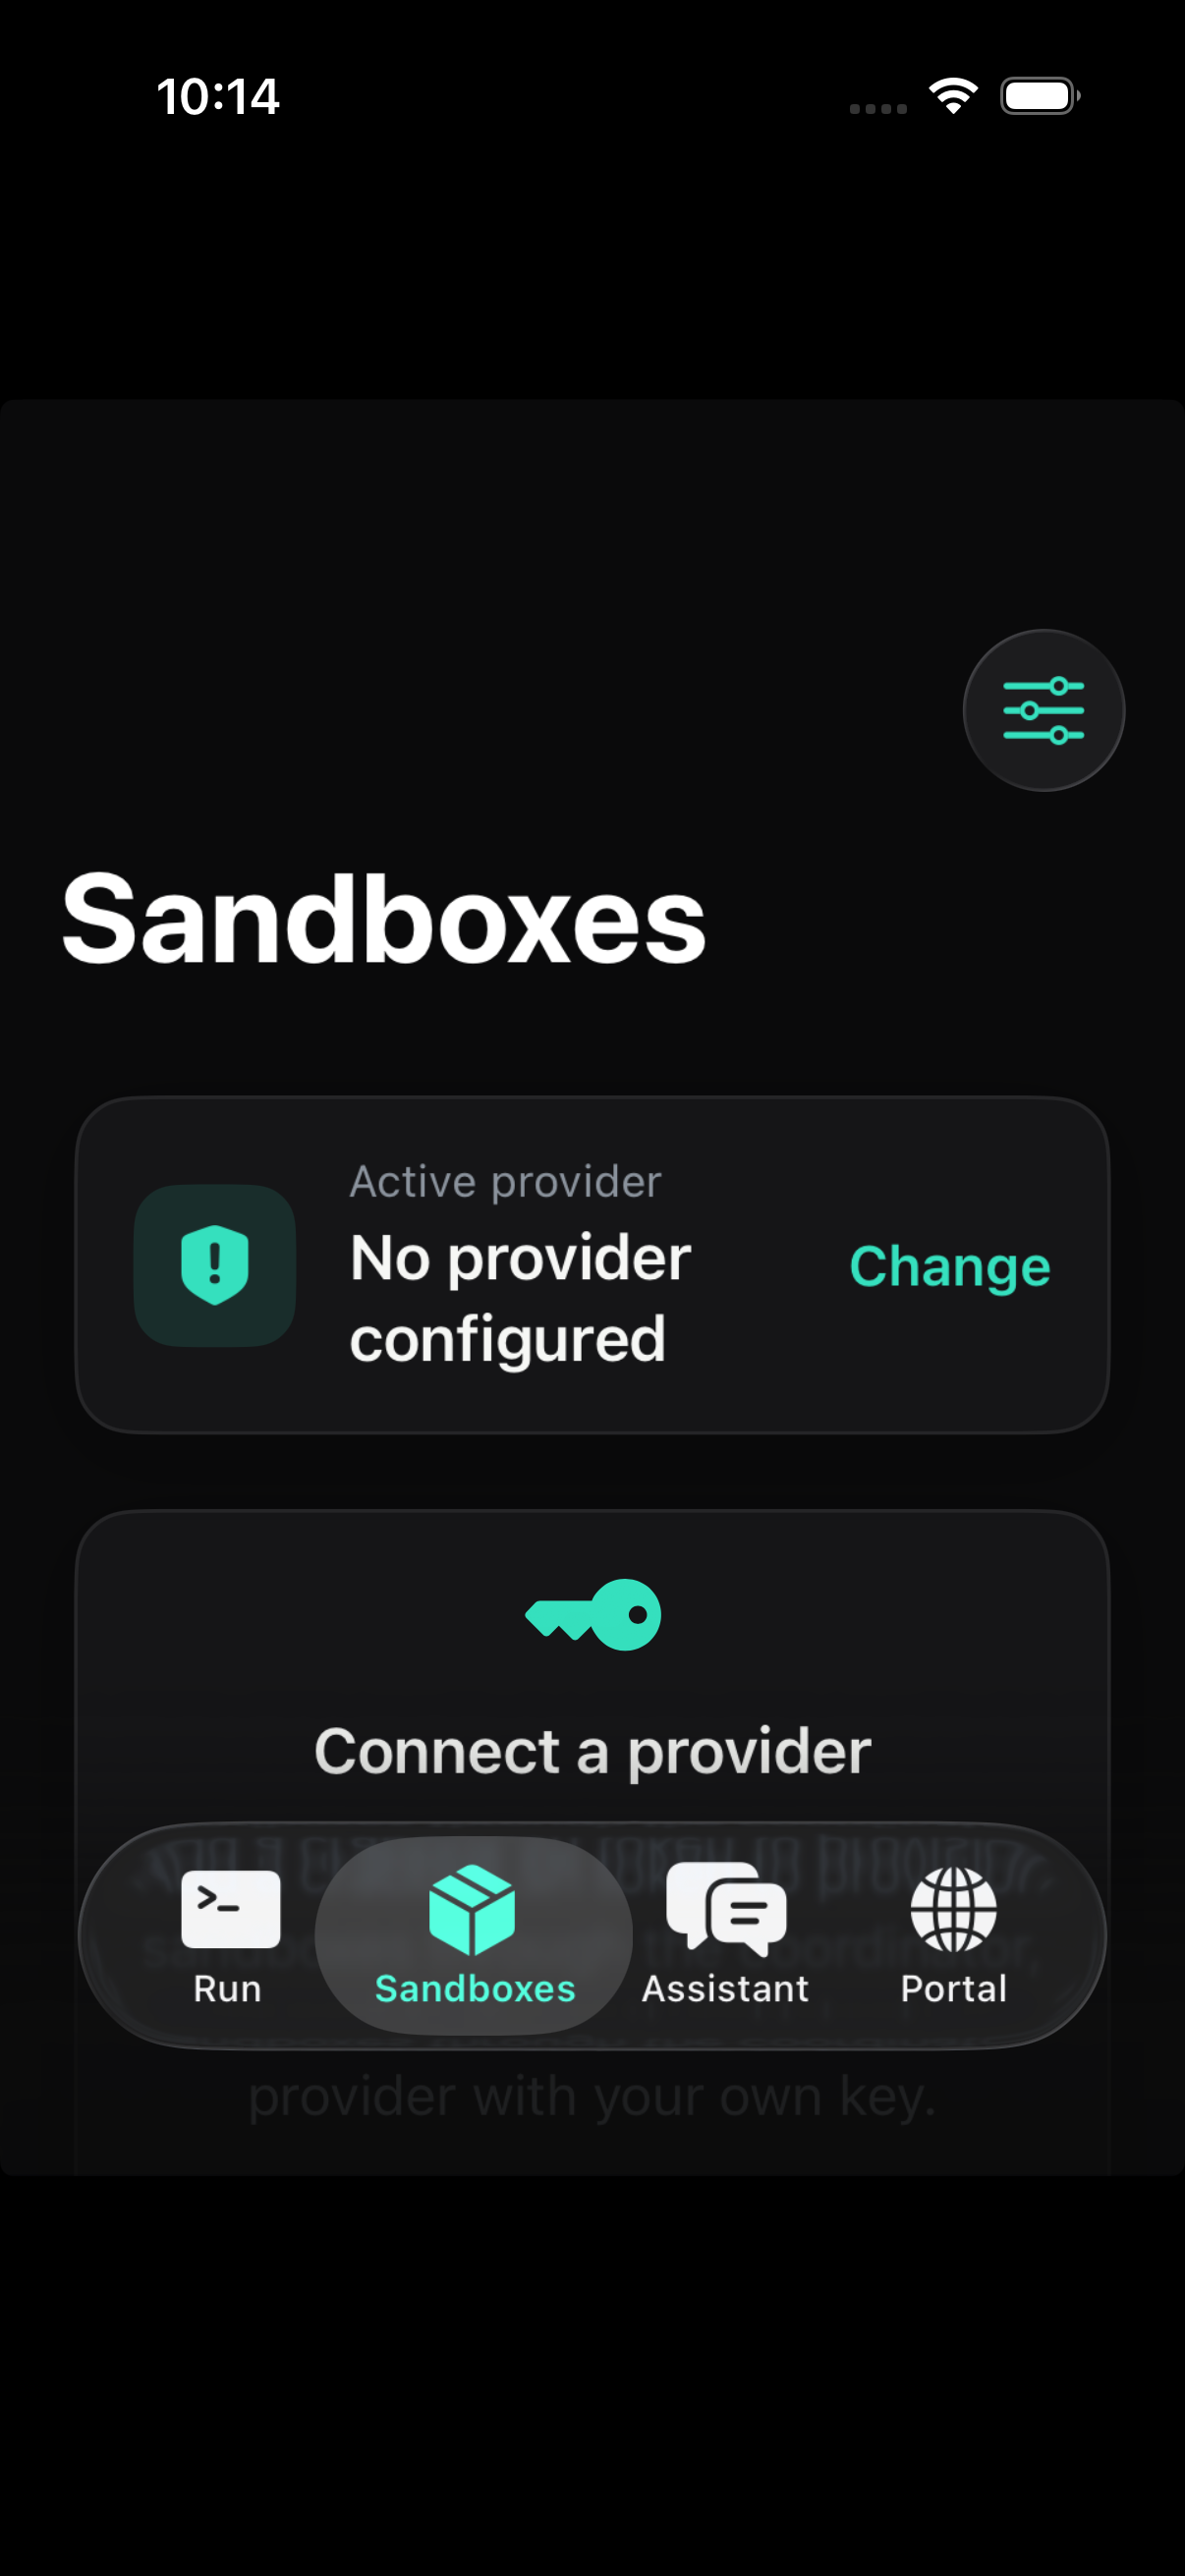
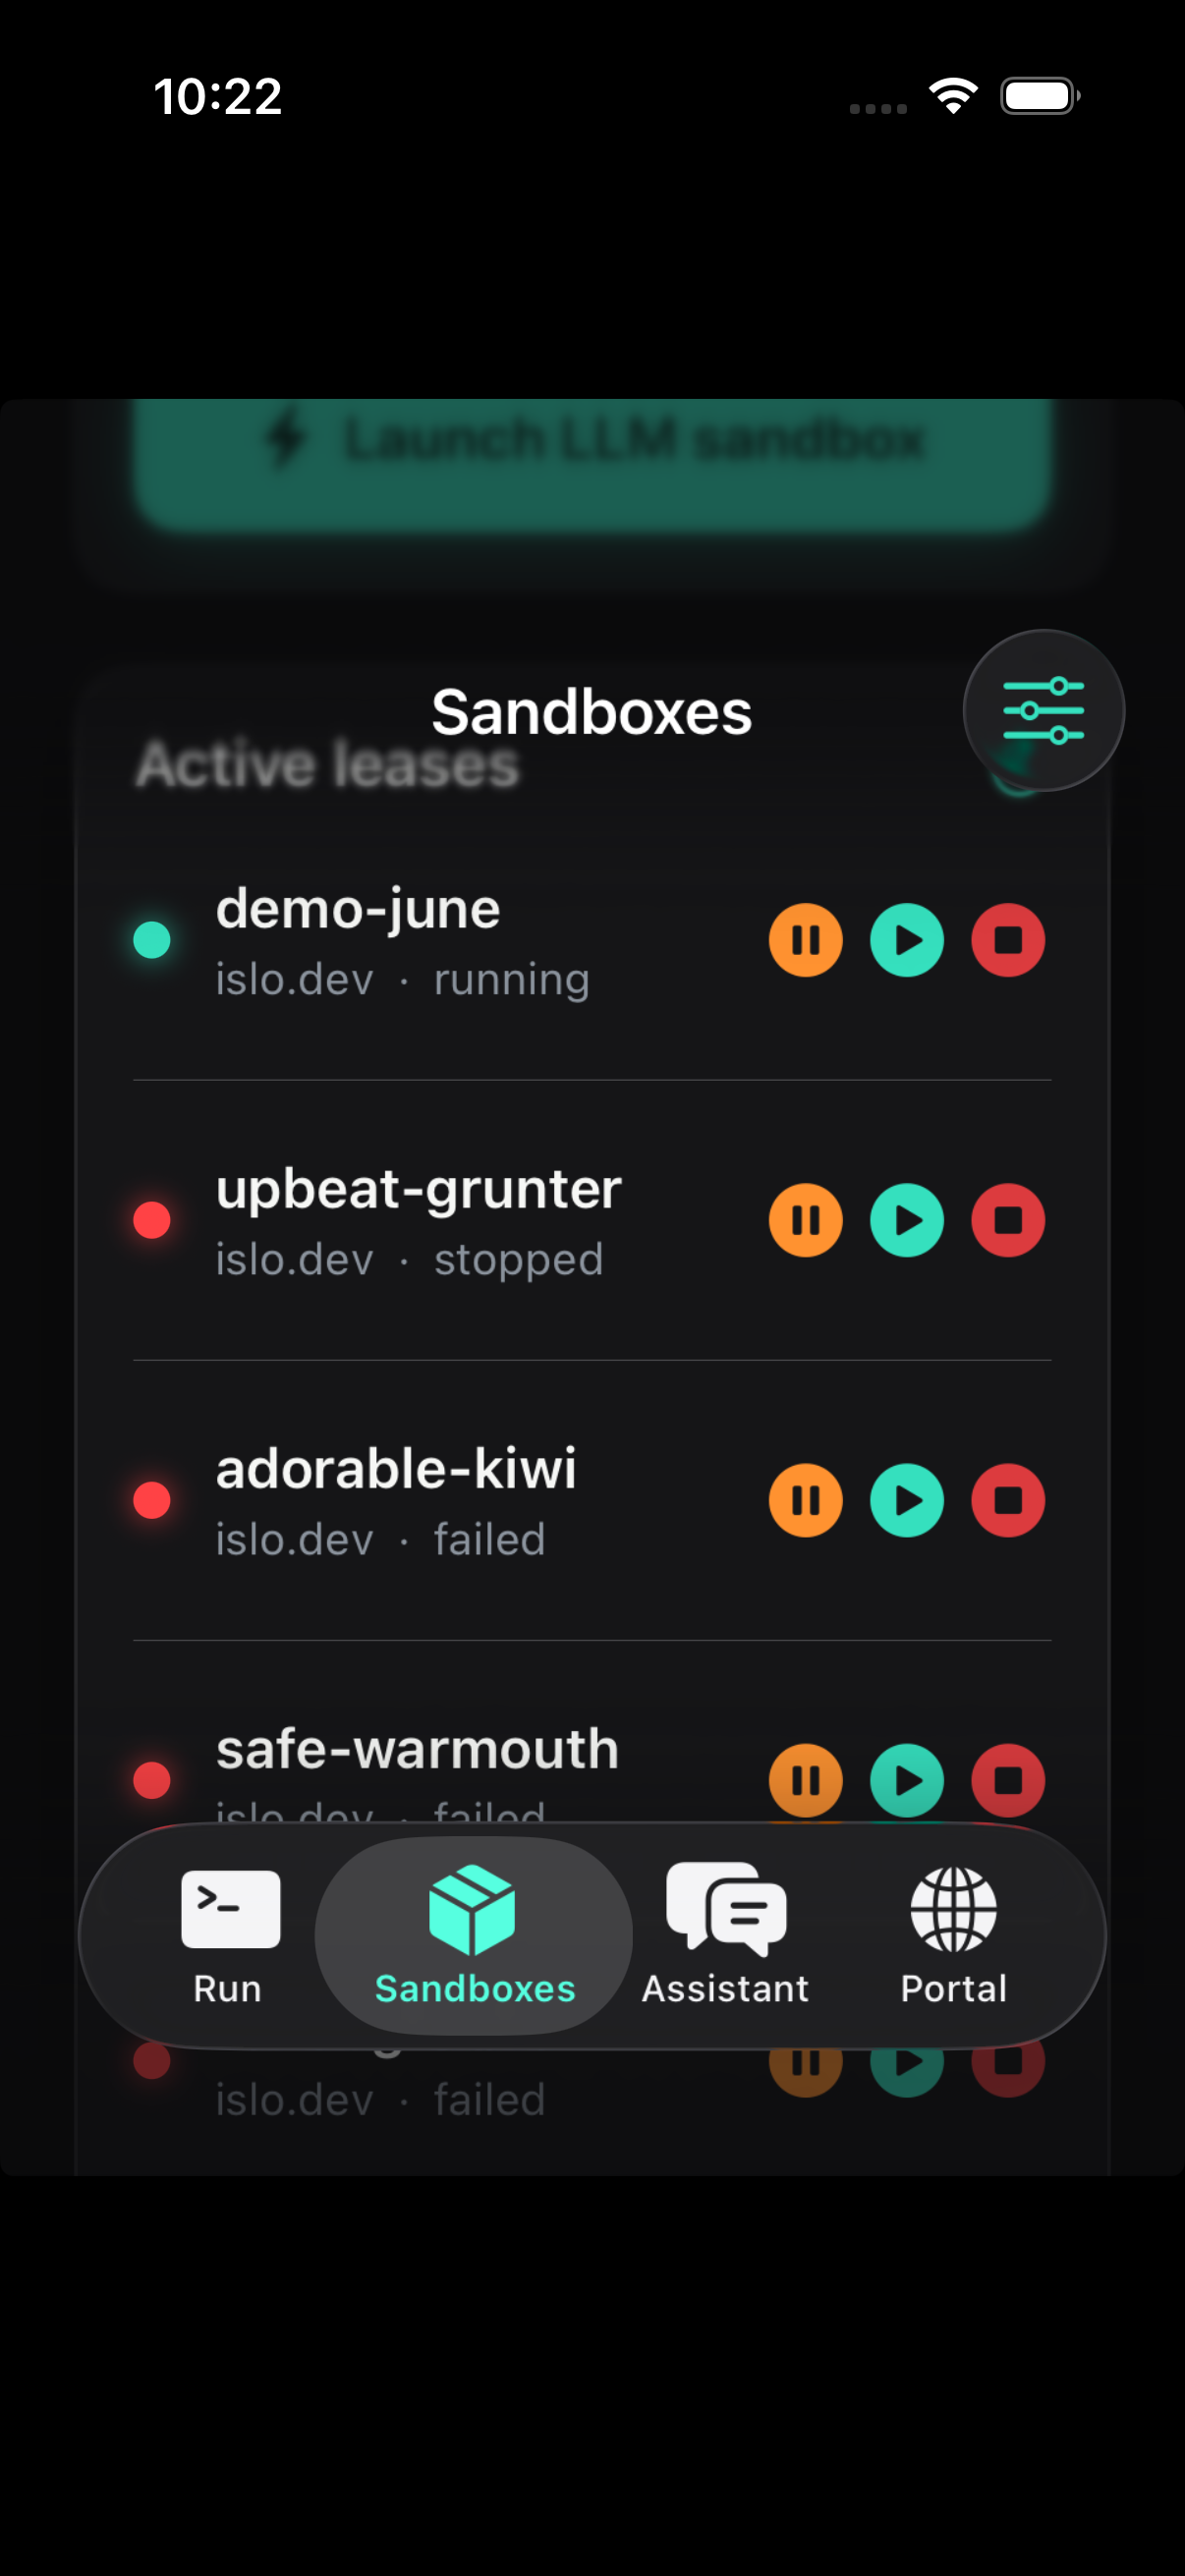
feat(mobile): in-app map-reduce over islo (command center) + live demo
Adds a real Map-Reduce action to the Run tab: probe the selected (or
auto-discovered running) islo sandboxes, MAP a sharded Σ(1…1000)+min/max
across them in parallel via IsloClient.exec, then REDUCE on the phone.

- One-tap from the top toolbar; auto-targets running boxes (prefers fresh
  crabbox-mapreduce-* demo boxes), re-shards across only the live ones so the
  result is always correct.
- Verified live against api.islo.dev: 3 sandboxes →
  55611 + 166500 + 278389 = 500500 (min 1, max 1000). See demo GIF.
- AppSettings: DEBUG-only CRABBOX_ISLO_KEY env hook for screenshot/demo runs.

Docs: mobile/docs/screenshots/mapreduce-demo.gif (live in-app run),
05-mapreduce.png, and a richer 02-sandboxes.png (real islo leases).

diff --git a/mobile/App/Run/CommandRunnerView.swift b/mobile/App/Run/CommandRunnerView.swift
@@ -36,6 +36,7 @@ struct CommandRunnerView: View {
     @State private var selectedTargetIDs: Set<String> = []
     @State private var distributeResults: [String: String] = [:] // id -> combined output
     @State private var isDistributing = false
+    @State private var isMapReducing = false
 
     var body: some View {
         NavigationStack {
@@ -55,6 +56,20 @@ struct CommandRunnerView: View {
             .navigationTitle("Run")
             .toolbarColorScheme(.dark, for: .navigationBar)
             .toolbar {
+                ToolbarItem(placement: .topBarLeading) {
+                    Button {
+                        Task { await mapReduceDemo() }
+                    } label: {
+                        HStack(spacing: 5) {
+                            if isMapReducing { ProgressView().tint(Theme.accent) }
+                            else { Image(systemName: "sum") }
+                            Text("Map-Reduce").font(.subheadline.weight(.semibold))
+                        }
+                        .foregroundStyle(Theme.accent)
+                    }
+                    .disabled(isMapReducing)
+                    .accessibilityLabel("Map-Reduce over islo")
+                }
                 ToolbarItem(placement: .topBarTrailing) {
                     Button {
                         showingProviderSettings = true
@@ -103,7 +118,8 @@ struct CommandRunnerView: View {
                     Text(status)
                         .font(.headline)
                         .foregroundStyle(Theme.textPrimary)
-                        .lineLimit(1)
+                        .lineLimit(2)
+                        .minimumScaleFactor(0.7)
                 }
                 Spacer()
                 statusPill
@@ -195,8 +211,14 @@ struct CommandRunnerView: View {
                             }
                             .font(.subheadline)
                         } else {
-                            // Multi-select for distribution. Tap to toggle.
-                            ForEach(sandboxStore.handles, id: \.id) { h in
+                            // Multi-select for distribution. Tap to toggle. Capped so
+                            // the card stays compact when the fleet is large; the
+                            // Map-Reduce action auto-discovers running boxes anyway.
+                            if sandboxStore.handles.count > 8 {
+                                Text("showing 8 of \(sandboxStore.handles.count) — Map-Reduce auto-targets running boxes")
+                                    .font(.caption2).foregroundStyle(Theme.textMuted)
+                            }
+                            ForEach(sandboxStore.handles.prefix(8), id: \.id) { h in
                                 let isSel = selectedTargetIDs.contains(h.id)
                                 Button {
                                     if isSel { selectedTargetIDs.remove(h.id) } else { selectedTargetIDs.insert(h.id) }
@@ -222,11 +244,31 @@ struct CommandRunnerView: View {
                                     .font(.caption)
                                 Spacer()
                                 if !selectedTargetIDs.isEmpty {
-                                    Text("\(selectedTargetIDs.count) target(s) — will distribute")
+                                    Text("\(selectedTargetIDs.count) selected")
                                         .font(.caption)
                                         .foregroundStyle(Theme.accent)
                                 }
                             }
+
+                            // Map-reduce demo: shard sum(1...1000) across the selected
+                            // islo sandboxes (MAP), then aggregate on the phone (REDUCE).
+                            Button {
+                                Task { await mapReduceDemo() }
+                            } label: {
+                                HStack(spacing: 8) {
+                                    if isMapReducing { ProgressView().tint(Theme.accent) }
+                                    else { Image(systemName: "sum") }
+                                    Text(selectedTargetIDs.isEmpty ? "Map-Reduce  Σ(1…1000) over islo" : "Map-Reduce  Σ(1…1000) across \(selectedTargetIDs.count)")
+                                        .font(.footnote.weight(.semibold))
+                                }
+                                .frame(maxWidth: .infinity)
+                                .padding(.vertical, 10)
+                                .background(Theme.accent.opacity(0.12), in: RoundedRectangle(cornerRadius: 10))
+                                .overlay(RoundedRectangle(cornerRadius: 10).strokeBorder(Theme.accent.opacity(0.35), lineWidth: 1))
+                                .foregroundStyle(Theme.accent)
+                            }
+                            .disabled(isMapReducing)
+                            .padding(.top, 4)
                         }
                     }
                     .padding(8)
@@ -423,6 +465,111 @@ struct CommandRunnerView: View {
         isDistributing = false
         status = "Distributed to \(targets.count)"
         // Keep the single-run output area as aggregate; per-id also in distributeResults if UI wants tabs later.
+    }
+
+    /// Map-reduce demo: shard `Σ(1…n)` (with min/max) across the selected islo
+    /// sandboxes (MAP) via `IsloClient.exec` in parallel, then aggregate on the
+    /// phone (REDUCE). The iOS app as a command center over islo.dev.
+    @MainActor
+    private func mapReduceDemo() async {
+        guard let key = settings.isloKey?.trimmingCharacters(in: .whitespacesAndNewlines), !key.isEmpty,
+              let client = IsloClient(apiKey: key, baseURL: settings.isloBaseURL) else {
+            status = "islo key missing"
+            output = "Add your islo key in provider settings to map-reduce over islo.\n"
+            showingProviderSettings = true
+            return
+        }
+
+        isMapReducing = true
+        defer { isMapReducing = false }
+        exitCode = nil
+        runningMode = .nativeCore
+        let n = 1000
+
+        // Targets: the user's explicit selection, else auto-discover running islo
+        // boxes (preferring fresh `crabbox-mapreduce-*` demo boxes) so the demo is
+        // a single tap.
+        var targets = sandboxStore.handles.filter { selectedTargetIDs.contains($0.id) }.map { $0.id }
+        if targets.isEmpty {
+            status = "Discovering running islo sandboxes…"
+            output = "$ map-reduce  Σ(1…\(n))  — discovering running islo sandboxes…\n\n"
+            let all = (try? await client.listSandboxes()) ?? []
+            let running = all.filter { $0.status == "running" }.map(\.name)
+            let demo = running.filter { $0.hasPrefix("crabbox-mapreduce") }
+            targets = (demo.isEmpty ? running : demo)
+            targets = Array(targets.prefix(4))
+        }
+        guard !targets.isEmpty else {
+            status = "No running sandboxes"
+            output = "No running islo sandboxes to map-reduce across. Launch some in the Sandboxes tab.\n"
+            return
+        }
+
+        let probeTargets = targets
+        status = "Map-reduce: probing \(probeTargets.count) sandbox(es)…"
+        output = "$ map-reduce  Σ(1…\(n))  over \(probeTargets.count) islo sandbox(es)\n\n"
+
+        // PROBE: keep only sandboxes that actually respond, so the shards cover
+        // 1…n exactly even if some selected boxes are stopped/failed.
+        var live: [String] = []
+        await withTaskGroup(of: (String, Bool).self) { group in
+            for name in probeTargets {
+                group.addTask {
+                    let res = try? await client.exec(name: name, script: "echo ok")
+                    return (name, (res?.stdout ?? "").contains("ok"))
+                }
+            }
+            for await (name, ok) in group {
+                output += ok ? "  [probe] \(name) ✓ live\n" : "  [probe] \(name) ✗ skipped\n"
+                if ok { live.append(name) }
+            }
+        }
+        guard !live.isEmpty else {
+            output += "\n  no live sandboxes among the selection.\n"
+            status = "No live sandboxes"; exitCode = 1; return
+        }
+
+        let s = live.count
+        status = "Map-reduce across \(s) sandbox(es)…"
+        output += "\n"
+
+        // MAP: one shard per LIVE sandbox, executed in parallel over islo.
+        let shards = live.enumerated().map { (idx: $0.offset, name: $0.element) }
+        var lines: [(name: String, sum: Int, mn: Int, mx: Int)] = []
+        await withTaskGroup(of: (String, String).self) { group in
+            for shard in shards {
+                let per = n / s
+                let a = shard.idx * per + 1
+                let b = (shard.idx == s - 1) ? n : (shard.idx + 1) * per
+                let name = shard.name
+                group.addTask {
+                    let script = "seq \(a) \(b) | awk '{sum+=$1; if(mn==\"\"||$1<mn)mn=$1; if($1>mx)mx=$1} END{print sum, mn, mx}'"
+                    let res = try? await client.exec(name: name, script: script)
+                    return (name, (res?.stdout ?? "").trimmingCharacters(in: .whitespacesAndNewlines))
+                }
+            }
+            for await (name, out) in group {
+                let parts = out.split(separator: " ").compactMap { Int($0) }
+                if parts.count == 3 {
+                    lines.append((name, parts[0], parts[1], parts[2]))
+                    output += "  [map] \(name) → sum=\(parts[0]) min=\(parts[1]) max=\(parts[2])\n"
+                } else {
+                    output += "  [map] \(name) → \(out.isEmpty ? "(no output)" : out)\n"
+                }
+            }
+        }
+
+        // REDUCE on the phone.
+        let total = lines.reduce(0) { $0 + $1.sum }
+        let gmin = lines.map(\.mn).min()
+        let gmax = lines.map(\.mx).max()
+        let expected = n * (n + 1) / 2
+        output += "\n  [reduce] Σ = \(total)  ·  min = \(gmin.map(String.init) ?? "—")  ·  max = \(gmax.map(String.init) ?? "—")  across \(lines.count) sandbox(es)\n"
+        let ok = total == expected && gmin == 1 && gmax == n
+        output += ok ? "  ✅ matches Σ(1…\(n)) = \(expected)\n" : "  expected Σ = \(expected)\n"
+        exitCode = ok ? 0 : 1
+        status = ok ? "✓ Σ=\(total) · \(lines.count) boxes" : "Map-reduce done"
+        runningMode = nil
     }
 
     @MainActor

diff --git a/mobile/App/Settings/AppSettings.swift b/mobile/App/Settings/AppSettings.swift
@@ -77,6 +77,17 @@ final class AppSettings: ObservableObject {
         // Secrets are loaded from the Keychain, never from UserDefaults.
         self.crabboxToken = KeychainStore.get(.crabboxToken)
         self.isloKey = KeychainStore.get(.isloKey)
+
+        #if DEBUG
+        // DEBUG-only: allow preloading the direct-islo provider from the launch
+        // environment (SIMCTL_CHILD_CRABBOX_ISLO_KEY=…) for screenshot/demo runs.
+        // Never used in Release; the key is still mirrored into the Keychain.
+        if let injected = ProcessInfo.processInfo.environment["CRABBOX_ISLO_KEY"],
+           !injected.trimmingCharacters(in: .whitespacesAndNewlines).isEmpty {
+            self.isloEnabled = true
+            self.isloKey = injected
+        }
+        #endif
     }
 
     // MARK: - Derived state